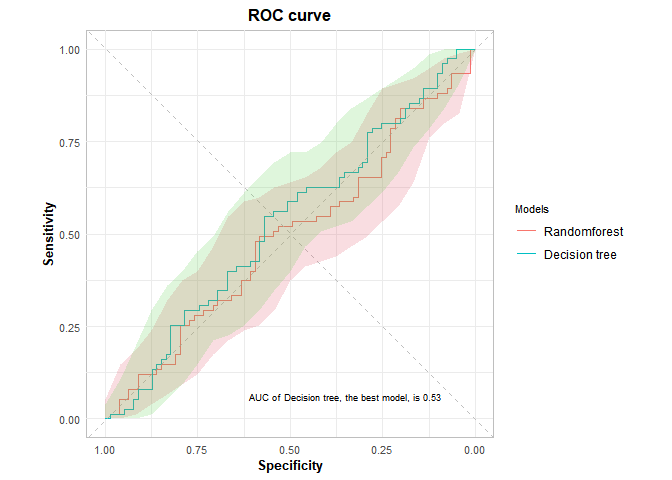
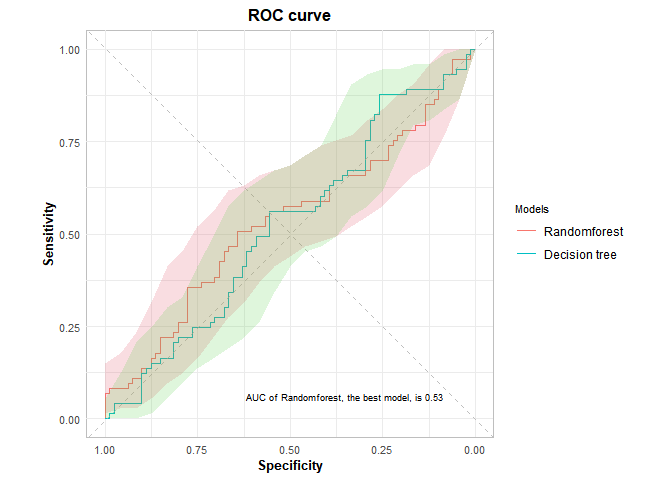
Third commit

diff --git a/README.md b/README.md
@@ -15,7 +15,10 @@ a shiny gadget that provides a ROC/PRC according to a user’s choice.
 You can install the development version of bjpack1 like so:
 
 ``` r
-install.packages("bjpack1")
+install.packages("dplyr")
+library(devtools)
+install_github("qhwjd246/bjpack1")
+library(bjpack1)
 ```
 
 ## Example
@@ -26,33 +29,64 @@ This is a basic example which shows you how to solve a common problem:
 library(bjpack1)
 
 ## basic example code
+## example 1
 testy<-sample(c(0,1), 154, replace=TRUE)
 pred_test1<-runif (154, min=0, max=1)
 pred_test2<- runif (154, min=0, max=1)
 predlist<-list(pred_test1, pred_test2)
 modellist<-list("Randomforest","Decision tree")
+
+
+## example 2
+testy2<-sample(c(0,1), 1000, replace=TRUE)
+pred_test3<-runif (1000, min=0, max=1)
+pred_test4<- runif (1000, min=0, max=1)
+predlist2<-list(pred_test3, pred_test4)
+modellist2<-list("Randomforest","Decision tree")
 ```
 
     #> Setting levels: control = 0, case = 1
-    #> Setting direction: controls > cases
-    #> Setting levels: control = 0, case = 1
     #> Setting direction: controls < cases
-    #> Warning in grid.Call.graphics(C_text, as.graphicsAnnot(x$label), x$x, x$y, : 윈
-    #> 도우즈 폰트데이터베이스에서 찾을 수 없는 폰트페밀리입니다
+    #> Setting levels: control = 0, case = 1
+    #> Setting direction: controls > cases
+    #> Warning in grid.Call.graphics(C_text, as.graphicsAnnot(x$label), x$x, x$y, :
+    #> 윈도우즈 폰트데이터베이스에서 찾을 수 없는 폰트페밀리입니다
 
 <img src="man/figures/README-newtab-1.png" width="100%" />
 
     #> Setting levels: control = 0, case = 1
     #> Setting direction: controls > cases
     #> Setting levels: control = 0, case = 1
+    #> Setting direction: controls < cases
+
+<img src="man/figures/README-newtab-2.png" width="100%" />
+
+    #> Setting levels: control = 0, case = 1
+    #> Setting direction: controls < cases
+    #> Setting levels: control = 0, case = 1
+    #> Setting direction: controls < cases
+    #> Setting levels: control = 0, case = 1
+    #> Setting direction: controls > cases
+    #> Setting levels: control = 0, case = 1
+    #> Setting direction: controls > cases
+
+<img src="man/figures/README-newroc-1.png" width="100%" />
+
+    #> Setting levels: control = 0, case = 1
+    #> Setting direction: controls > cases
+    #> Setting levels: control = 0, case = 1
     #> Setting direction: controls > cases
     #> Setting levels: control = 0, case = 1
     #> Setting direction: controls < cases
     #> Setting levels: control = 0, case = 1
     #> Setting direction: controls < cases
 
-<img src="man/figures/README-newroc-1.png" width="100%" />
+<img src="man/figures/README-newroc-2.png" width="100%" />
 
+    #> Setting levels: control = 0, case = 1
+    #> Setting direction: controls < cases
+    #> Setting levels: control = 0, case = 1
+    #> Setting direction: controls > cases
     #> Setting levels: control = 0, case = 1
     #> Setting direction: controls > cases
     #> Setting levels: control = 0, case = 1
@@ -63,7 +97,15 @@ modellist<-list("Randomforest","Decision tree")
 
 <img src="man/figures/README-prc-1.png" width="100%" />
 
+    #> Warning: Removed 1 row containing missing values (`geom_path()`).
+    #> Removed 1 row containing missing values (`geom_path()`).
+
+<img src="man/figures/README-prc-2.png" width="100%" />
+
 ``` r
 ##shiny gadget
+#first example result
 newshiny=bjshiny (testy, pred_test1,modellist)
+#second example result
+newshiny1=bjshiny (testy2, pred_test3,modellist2)
 ```
